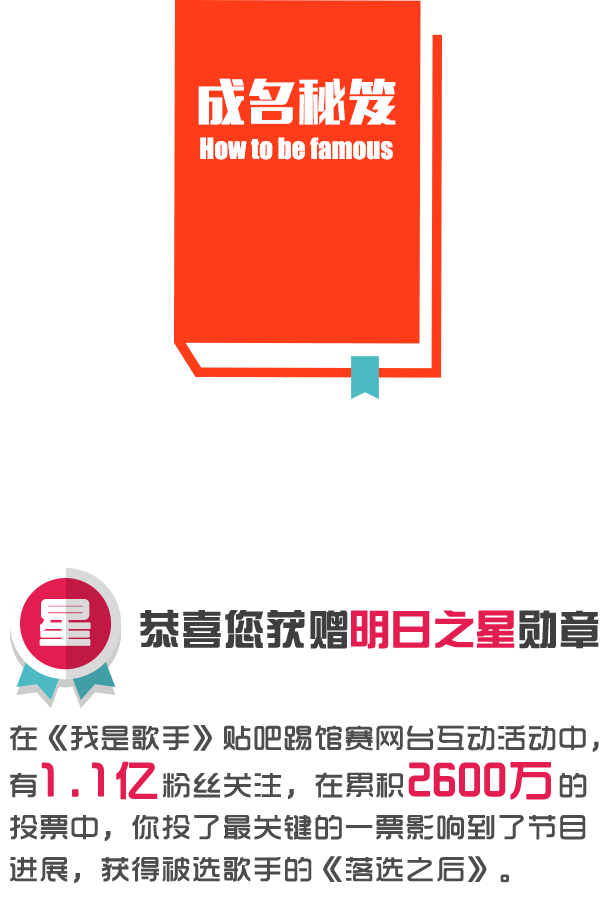
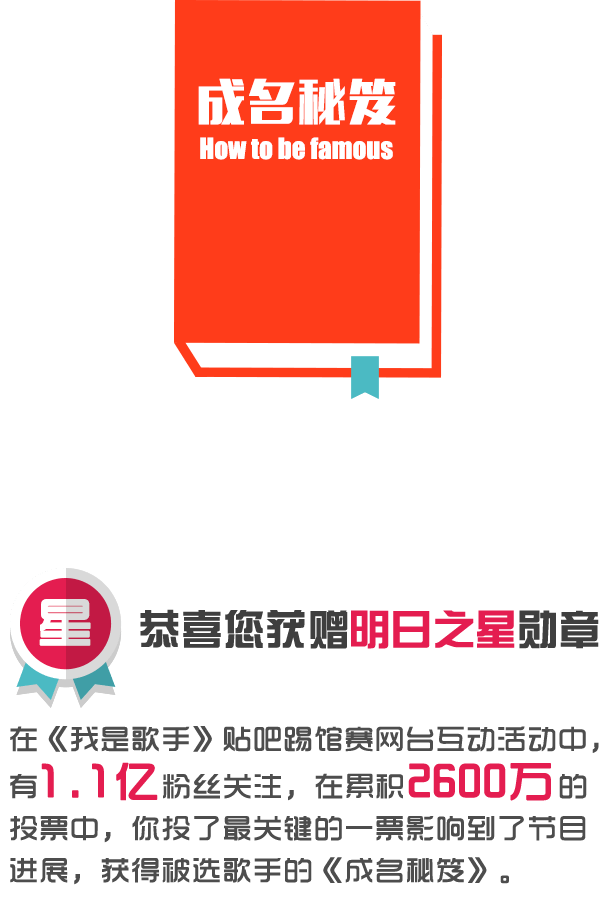
替换最新文案

Changed region(s): [[0.0, 0.8071, 0.964, 0.9933]]

diff --git a/static/js/anniversary/anniversary2.js b/static/js/anniversary/anniversary2.js
@@ -226,7 +226,21 @@ var drawFace = function(){
 	ctx.drawImage(imgClip, 0, 0, 450, 580);
 	ctx.globalCompositeOperation = "source-in";
 	imgFace.onload = function(){
-		ctx.drawImage(imgFace, 0, 0, 450, 580);	
+		var w = imgFace.width, h=imgFace.height; //此时应该肯定是竖构图
+		var wToDraw, hToDraw, leftCo;
+		wToDraw = w;
+		hToDraw = (580/450)*wToDraw;
+		if(h<hToDraw){
+			hToDraw=h;
+			wToDraw = 450/580*hToDraw;
+			leftCo = (w - wToDraw)/2;
+			ctx.drawImage(imgFace, leftCo, 0, wToDraw, hToDraw, 0, 0, 450, 580);	
+		}else{
+			ctx.drawImage(imgFace, 0, 0, wToDraw, hToDraw, 0, 0, 450, 580);	
+		}
+
+
+		ctx.drawImage(imgFace, 0, 0, wToDraw, hToDraw, 0, 0, 450, 580);	
 		faceImg = canvas.toDataURL("image/png", 0.5); 
     	$("#j-secury").show();
     	$("#j-retake").show();
@@ -301,6 +315,11 @@ var shot = function(shotNum){
 		jQjdResult.attr('src', '/static/css/anniversary2/result/jingdong/2.png');
 	}
 	swiper.slideNext();
+}
+
+var gameResult=function(){
+    anjianLevel = parseInt(Math.random()*2)+1;
+
 }
 
 // 关卡切换
@@ -798,7 +817,7 @@ $("#fill").bind('click', function(){
 	finalMsg = usrName+finalMsg;
 	wx.onMenuShareAppMessage({		    
 		title: '居然有人在贴吧里玩出了豪华跑车，到底是谁送的？！去试试自己的运气！', // 分享标题
-	    link: 'http://ssld-vi.com/tieba/anniversary', // 分享链接		
+	    link: 'http://ssld-vi.com/tieba/anni3', // 分享链接		
 	    imgUrl: 'http://7xjv0c.com1.z0.glb.clouddn.com/cover2.jpg' ,  
 	    desc: finalMsg,
 	});	

diff --git a/templates/annimin.html b/templates/annimin.html
@@ -363,13 +363,13 @@
 		wx.ready(function () {
 			wx.onMenuShareAppMessage({		    
 				title: '居然有人在贴吧里玩出了豪华跑车，到底是谁送的？！去试试自己的运气！', // 分享标题
-			    link: 'http://ssld-vi.com/tieba/anni2', // 分享链接		
+			    link: 'http://ssld-vi.com/tieba/anni3', // 分享链接		
 			    imgUrl: 'http://7xjv0c.com1.z0.glb.clouddn.com/cover2.jpg' ,  
 			    desc: '居然有人在贴吧里玩出了豪华跑车，到底是谁送的？！去试试自己的运气！',
 			});
 		});		
 	</script>	
-	<script type="text/javascript" src="/static/js/anniversary/anniversary2.js?v=3.4"></script>
+	<script type="text/javascript" src="/static/js/anniversary/anniversary2.js?v=1.8"></script>
 
 
 </body>
